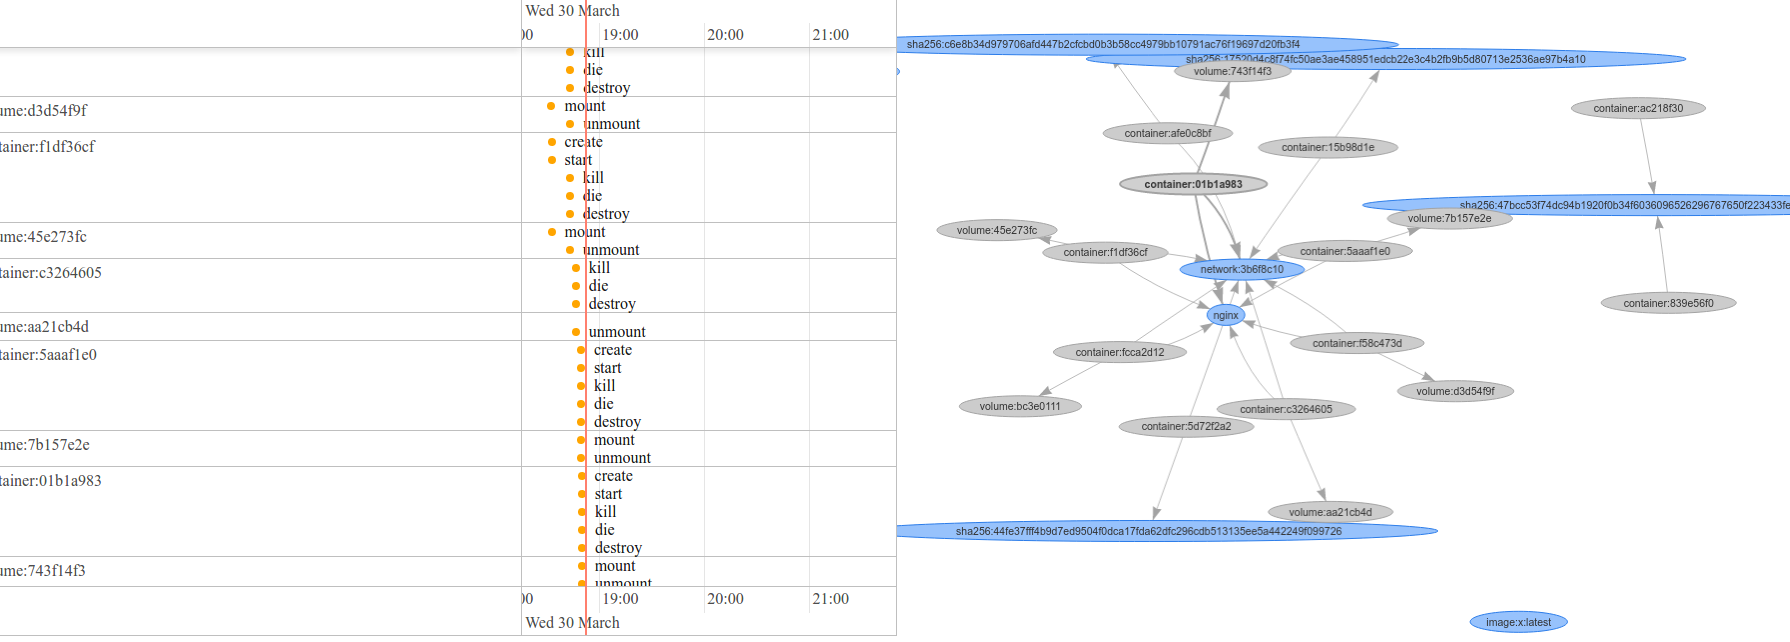
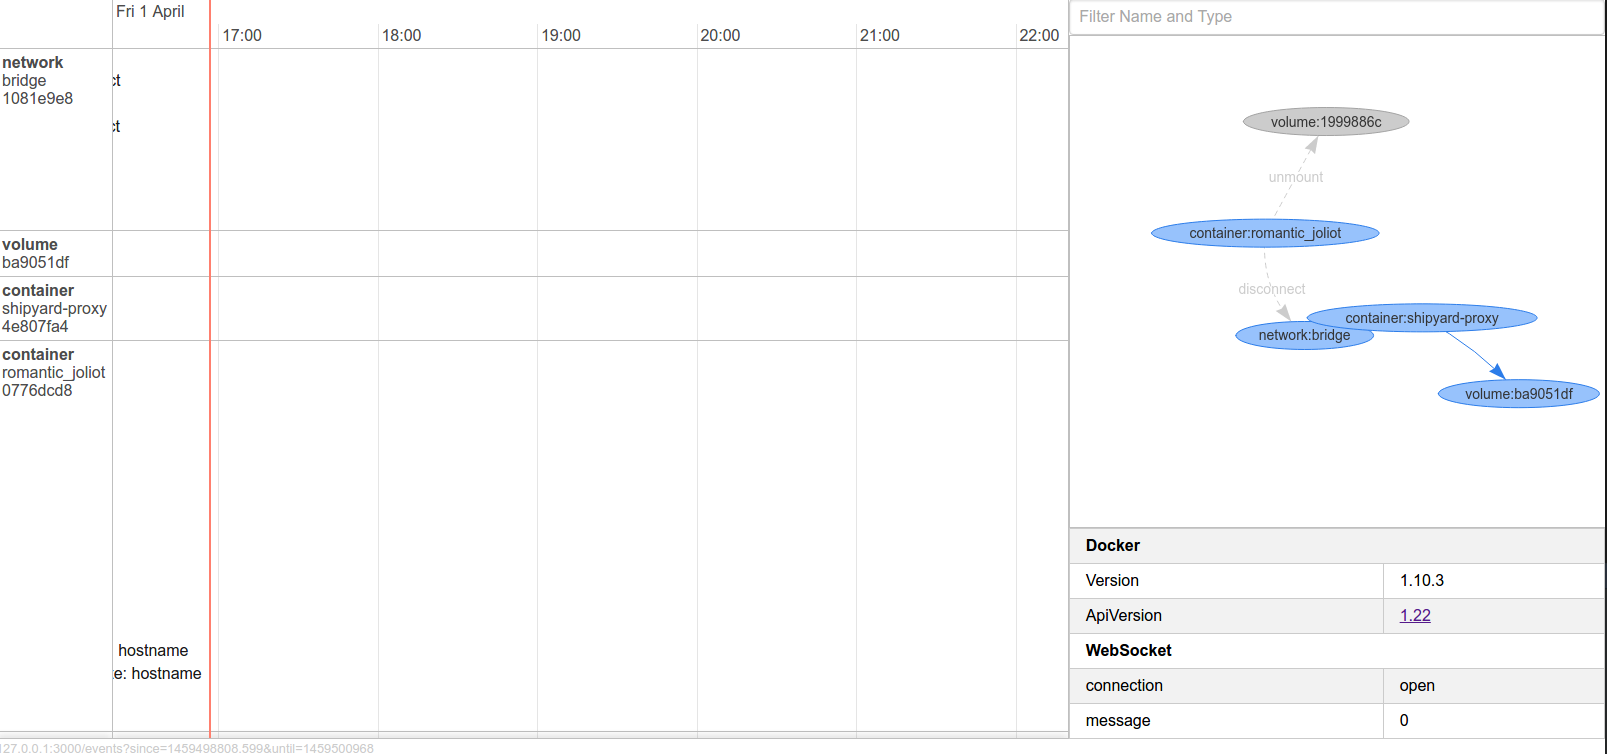
Improve user experience

diff --git a/src/DockerInfo.jsx b/src/DockerInfo.jsx
@@ -1,0 +1,108 @@
+import React from 'react';
+import $ from 'jquery';
+import {onEvent} from './eventHandlers.es6';
+
+class DockerInfo extends React.Component {
+
+  constructor(...args) {
+    super(...args);
+    this.state = {
+      status: "n/a",
+      messageCount: 0,
+      ApiVersion: "n/a",
+      Version: "n/a"
+    }
+  }
+
+  onMessage(e) {
+    this.setState({
+      messageCount: this.state.messageCount + 1
+    });
+    onEvent(JSON.parse(e.data));
+  }
+
+  onOpen(e) {
+    this.setState({
+      status: 'open'
+    });
+  }
+
+  onError(e) {
+    this.setState({
+      status: 'error'
+    });
+  }
+
+  onClose(e) {
+    this.setState({
+      status: 'close'
+    });
+  }
+
+  componentDidMount() {
+    this.fetchVersion();
+    let {
+      host,
+      protocol
+    } = window.location;
+    var socket = new WebSocket(`${protocol == "http:" ? "ws://" : "wss://"}${location.host}`);
+    socket.addEventListener('message', this.onMessage.bind(this));
+    socket.addEventListener('open', this.onOpen.bind(this));
+    socket.addEventListener('error', this.onError.bind(this));
+    socket.addEventListener('close', this.onClose.bind(this));
+  }
+
+  fetchVersion() {
+    $.getJSON('/version', res=> {
+      let {
+        ApiVersion,
+        Version
+      } = res;
+
+      this.setState({
+        ApiVersion,
+        Version
+      })
+    })
+  }
+
+  render() {
+    return <table className="pure-table pure-table-bordered pure-table-striped" style={{width:"100%"}}>
+      <tbody>
+
+      <tr>
+        <td colSpan="2"><strong>Docker</strong></td>
+      </tr>
+      <tr>
+        <td>Version</td>
+        <td>{this.state.Version}</td>
+      </tr>
+      <tr>
+        <td>ApiVersion</td>
+        <td>
+          <a
+            target="_blank"
+            href={`https://github.com/docker/docker/blob/master/docs/reference/api/docker_remote_api_v${this.state.ApiVersion}.md#monitor-dockers-events`}>
+            {this.state.ApiVersion}
+          </a></td>
+      </tr>
+
+      <tr>
+        <td colSpan="2"><strong>WebSocket</strong></td>
+      </tr>
+
+      <tr>
+        <td>connection</td>
+        <td>{this.state.status}</td>
+      </tr>
+      <tr>
+        <td>message</td>
+        <td>{this.state.messageCount}</td>
+      </tr>
+
+      </tbody>
+    </table>
+  }
+}
+
+export default DockerInfo;

diff --git a/src/App.jsx b/src/App.jsx
@@ -1,7 +1,8 @@
 import React from "react";
 import "vis/dist/vis.css";
+import "purecss/build/pure.css";
 import "./style.css";
-import WebSocketContainer from "./WebSocketContainer.jsx";
+import DockerInfo from "./DockerInfo.jsx";
 import {render} from "react-dom";
 import Timeline from "./Timeline.jsx";
 import Network from "./Network.jsx";
@@ -10,14 +11,26 @@ import Network from "./Network.jsx";
  * Timeline and Network is as its name
  */
 class App extends React.Component {
+
+  handleChange(e) {
+    this.refs.timeline.contentKeyword = e.target.value;
+    this.refs.timeline.filteredNodes.refresh();
+  }
+
   render() {
-    return <div>
-      <div>
-        <WebSocketContainer/>
+    return <div className="pure-g">
+      <div className="pure-u-2-3">
+        <Timeline ref="timeline"/>
       </div>
-      <div>
-        <Timeline/>
+      <div className="pure-u-1-3">
+        <form className="pure-form">
+          <input style={{width:"100%"}}
+                 type="search"
+                 placeholder="Filter Name and Type"
+                 onChange={this.handleChange.bind(this)}/>
+        </form>
         <Network/>
+        <DockerInfo/>
       </div>
     </div>
   }

diff --git a/src/Timeline.jsx b/src/Timeline.jsx
@@ -20,8 +20,8 @@ class Timeline extends React.Component {
   componentDidMount() {
 
     const timelineOptions = {
-      margin: 0,
-      orientation: 'both',
+      margin: -5,
+      orientation: 'top',
       stack: true,
       zoomMax: 6 * 3600000,
       order: function (a, b) {
@@ -36,7 +36,7 @@ class Timeline extends React.Component {
         }
       },
       max: Date.now() + 24 * 3600000,
-      height: "600px"
+      height: "740px"
     }
 
     this.filteredNodes = new vis.DataView(nodes, {
@@ -83,16 +83,12 @@ class Timeline extends React.Component {
       })
   }
 
-  handleChange(e) {
-    this.contentKeyword = e.target.value;
-    this.filteredNodes.refresh();
-  }
-
   render() {
-    return <div className="timelineContainer">
+    return <div>
       <div ref="container"/>
-      <input type="search" placeholder="Search Name and Type" onChange={this.handleChange.bind(this)}/>
-      <a href={this.state.href}>View as JSON</a>
+      <a style={{color:"#ccc"}} target="_blank" href={this.state.href}>
+        <small>{window.location.host}{this.state.href}</small>
+      </a>
     </div>
   }
 }

diff --git a/server.js b/server.js
@@ -76,6 +76,27 @@ app.get('/events', (req, res)=> {
   eventsRequest.end();
 });
 
+/**
+ * forward version api
+ */
+app.get('/version', (req, res)=> {
+
+  let infoRequest = http.request(
+    Object.assign(connectionOptions, {
+      path: '/version'
+    }), response=> {
+      response.pipe(res);
+    });
+
+  infoRequest.on('error', (err)=> {
+    console.error(err);
+    res.statusCode = 502;
+    res.end();
+  });
+
+  infoRequest.end();
+});
+
 app.use(webpackDevMiddleware(webpack(require('./webpack.config'))));
 server.on('request', app);
 

diff --git a/src/Network.jsx b/src/Network.jsx
@@ -7,9 +7,8 @@ class Network extends React.Component {
 
   componentDidMount() {
     const graphOptions = {
-      height: "600px"
+      height: "491px"
     }
-
 
     var graph = new vis.Network(findDOMNode(this), {
       nodes: nodes,
@@ -18,7 +17,7 @@ class Network extends React.Component {
   }
 
   render() {
-    return <div className="networkContainer"/>
+    return <div/>
   }
 }
 

diff --git a/src/style.css b/src/style.css
@@ -17,12 +17,12 @@ body, div {
 
 .timelineContainer {
     float: left;
-    width: 50%;
+    width: 60%
 }
 
 .networkContainer {
     float: left;
-    width: 50%;
+    width: 40%
 }
 
 .vis-network {
